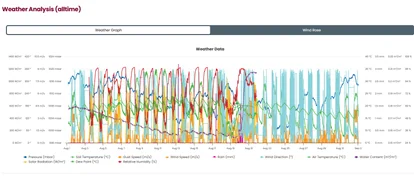
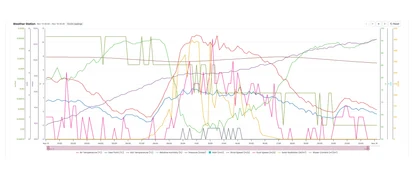
Refresh home-page dashboard screenshots to the current live dashboard
The home page showed two outdated, awkwardly-cropped grabs of the dashboard:

- Hero "Dashboard" slide (hero-weather-*.webp): an old August "Weather
  Analysis (alltime)" chart whose title was clipped off the top by the
  carousel cell. Replaced with a clean, current capture of the weather
  chart (Nov 2026 data) framed with margin so the chart and its full
  legend stay un-clipped at every desktop and phone width. Same
  dimensions (1600x685), so the slide and its text stay aligned.

- "The WELL Dashboard" section (dashboard-preview-*.webp): an old shot
  whose map showed the "This page can't load Google Maps correctly"
  error. Replaced with a current full-dashboard view - Filters, Latest
  Data, the working map and Graphs - captured from the live site, where
  the map now renders. Reframed to the aspect ratio the card actually
  crops to (it scales the image to the card and shows mainly the centre),
  so the whole view reads well on desktop and phone; well_media_img's
  declared size is updated to match the new image.

Images were captured headless at a desktop viewport with the charts and
map fully rendered, then exported as the same set of pre-sized WebP
copies the theme already uses.

diff --git a/home/wp-content/themes/well/sections/dashboard.php b/home/wp-content/themes/well/sections/dashboard.php
@@ -12,9 +12,9 @@ defined( 'ABSPATH' ) || exit; // Only WordPress may load this file; a direct req
           <div class="card-main border-top h-100">
             <div class="card border-0 no-shadow card-hover flex-lg-row">
               <div class="card-img-mask card-img-mask-full card-img-mh min-w-50 order-sm-1">
-                <?php well_media_img('dashboard-preview', array(414, 720, 1080, 1600), array(1600, 838), array(
-                  // From 992 px the card scales the image to 105% of its height (css/mcm-bw.css .card-img-mask-full),
-                  // which draws it about 1160 px wide even though the visible half is narrower.
+                <?php well_media_img('dashboard-preview', array(414, 720, 1080, 1600), array(1600, 1209), array(
+                  // From 992 px the card scales the image to 105% of its height (css/mcm-bw.css .card-img-mask-full)
+                  // and crops it to the card, so mainly the centre of the shot shows; the image is framed for that.
                   'sizes'   => '(max-width: 576px) 100vw, (max-width: 991.98px) 90vw, 1200px',
                   'loading' => 'lazy',
                   'class'   => 'img-fluid',
